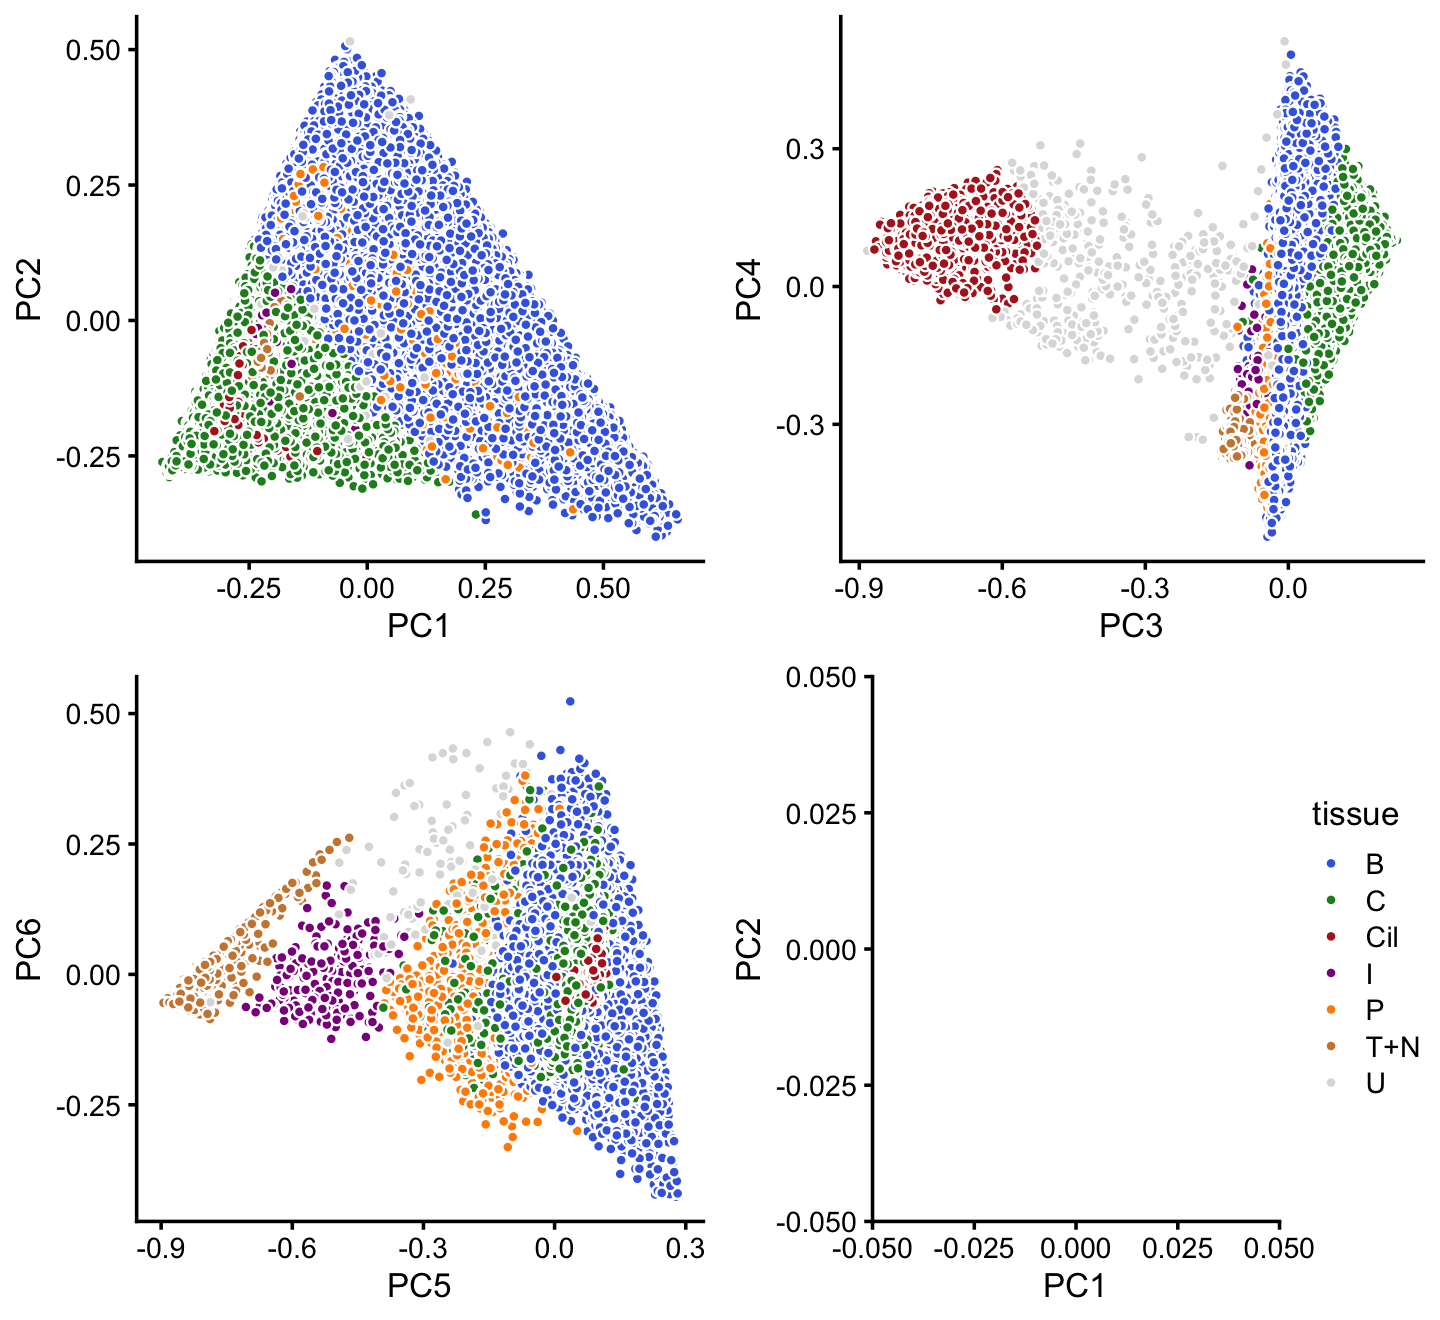
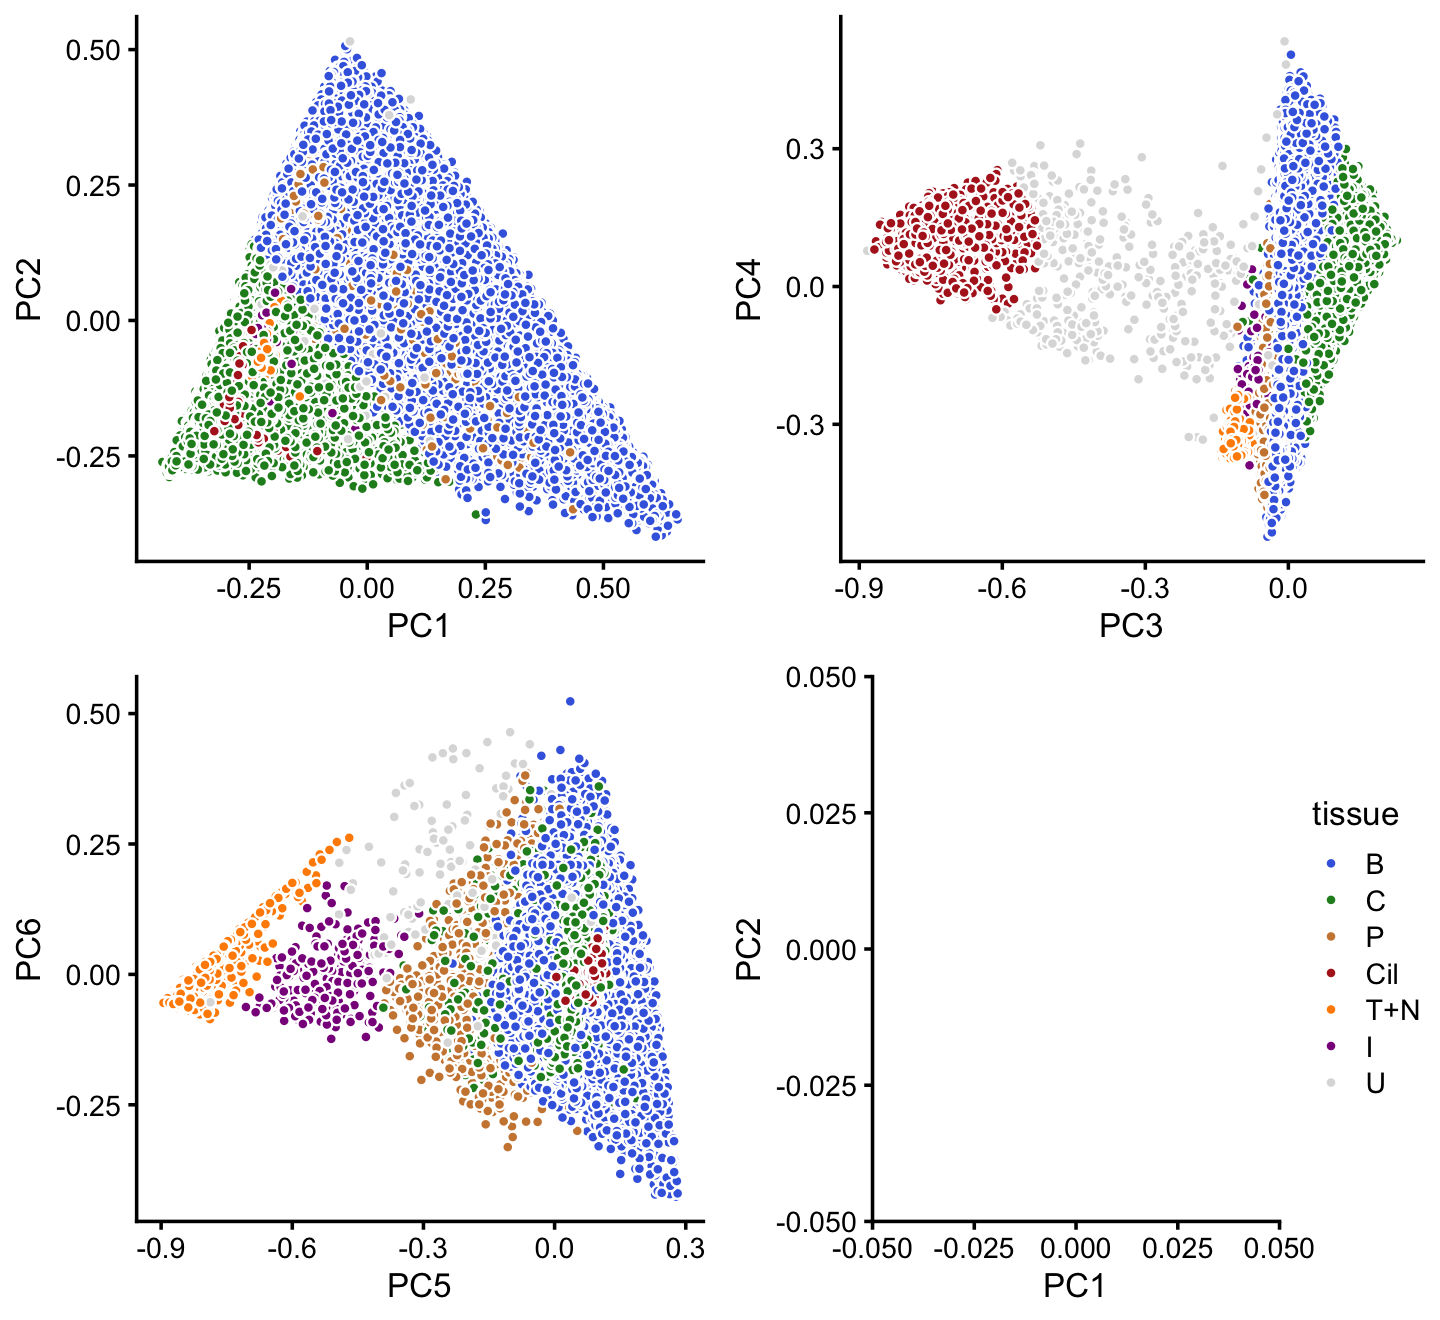
Added Structure plot and PCA plot to clusters_pulseseq analysis.

diff --git a/docs/clusters_pulseseq.html b/docs/clusters_pulseseq.html
@@ -414,16 +414,16 @@ This reproducible <a href="http://rmarkdown.rstudio.com">R Markdown</a> analysis
 <div class="panel panel-default">
 <div class="panel-heading">
 <p class="panel-title">
-<a data-toggle="collapse" data-parent="#workflowr-checks" href="#strongRepositoryversionstrongahrefhttpsgithubcomstephenslabsinglecelltopicstree62fef5a31dfe22d31f12807031f5eed93ccfc0ectargetblank62fef5aa"> <span class="glyphicon glyphicon-ok text-success" aria-hidden="true"></span> <strong>Repository version:</strong> <a href="https://github.com/stephenslab/single-cell-topics/tree/62fef5a31dfe22d31f12807031f5eed93ccfc0ec" target="_blank">62fef5a</a> </a>
+<a data-toggle="collapse" data-parent="#workflowr-checks" href="#strongRepositoryversionstrongahrefhttpsgithubcomstephenslabsinglecelltopicstreeec4a70acf23792b039d388e44a6e8f0a0130f6e6targetblankec4a70aa"> <span class="glyphicon glyphicon-ok text-success" aria-hidden="true"></span> <strong>Repository version:</strong> <a href="https://github.com/stephenslab/single-cell-topics/tree/ec4a70acf23792b039d388e44a6e8f0a0130f6e6" target="_blank">ec4a70a</a> </a>
 </p>
 </div>
[2 lines of base64/hex data omitted]
 <div class="panel-body">
 <p>
 Great! You are using Git for version control. Tracking code development and connecting the code version to the results is critical for reproducibility.
 </p>
 <p>
-The results in this page were generated with repository version <a href="https://github.com/stephenslab/single-cell-topics/tree/62fef5a31dfe22d31f12807031f5eed93ccfc0ec" target="_blank">62fef5a</a>. See the <em>Past versions</em> tab to see a history of the changes made to the R Markdown and HTML files.
+The results in this page were generated with repository version <a href="https://github.com/stephenslab/single-cell-topics/tree/ec4a70acf23792b039d388e44a6e8f0a0130f6e6" target="_blank">ec4a70a</a>. See the <em>Past versions</em> tab to see a history of the changes made to the R Markdown and HTML files.
 </p>
 <p>
 Note that you need to be careful to ensure that all relevant files for the analysis have been committed to Git prior to generating the results (you can use <code>wflow_publish</code> or <code>wflow_git_commit</code>). workflowr only checks the R Markdown file, but you know if there are other scripts or data files that it depends on. Below is the status of the Git repository when the results were generated:
@@ -443,8 +443,11 @@ Ignored files:
     Ignored:    output/pulseseq/fits-pulseseq.RData
     Ignored:    output/pulseseq/rds/
 
+Untracked files:
+    Untracked:  analysis/clustering-droplet.rds
+    Untracked:  analysis/clustering-pulseseq.rds
+
 Unstaged changes:
-    Modified:   analysis/clusters_droplet.Rmd
     Modified:   analysis/temp.R
 
 </code></pre>
@@ -484,6 +487,40 @@ Message
 </tr>
 </thead>
 <tbody>
+<tr>
+<td>
+Rmd
+</td>
+<td>
+<a href="https://github.com/stephenslab/single-cell-topics/blob/ec4a70acf23792b039d388e44a6e8f0a0130f6e6/analysis/clusters_pulseseq.Rmd" target="_blank">ec4a70a</a>
+</td>
+<td>
+Peter Carbonetto
+</td>
+<td>
+2020-09-22
+</td>
+<td>
+workflowr::wflow_publish(“clusters_pulseseq.Rmd”)
+</td>
+</tr>
+<tr>
+<td>
+html
+</td>
+<td>
+<a href="https://rawcdn.githack.com/stephenslab/single-cell-topics/6e4ccddaac9c949b976897c3787fc486d0405848/docs/clusters_pulseseq.html" target="_blank">6e4ccdd</a>
+</td>
+<td>
+Peter Carbonetto
+</td>
+<td>
+2020-09-22
+</td>
+<td>
+Made a few minor improvements to the clusters_pulseseq analysis.
+</td>
+</tr>
 <tr>
 <td>
 Rmd
@@ -1260,7 +1297,7 @@ Peter Carbonetto
 </table>
 </div>
 </div>
-<p>From PCs 5 and 6 define a new cluster, “P”, recognizing that this cluster is not particularly distinct.</p>
+<p>From PCs 5 and 6, define a new cluster, “P”, recognizing that this cluster is not particularly distinct.</p>
 <pre class="r"><code>pca &lt;- prcomp(fit2$L)$x
 y   &lt;- rep(&quot;B&quot;,nrow(pca))
 pc5 &lt;- pca[,5]
@@ -1268,12 +1305,21 @@ pc6 &lt;- pca[,6]
 y[pc5 &gt; 0.1 &amp; pc6 &lt; 0] &lt;- &quot;P&quot;
 x[rows] &lt;- y</code></pre>
 <p>In summary, we have subdivided the pulse-seq data into 7 subsets, which includes a background cluster (U).</p>
-<pre class="r"><code>colors &lt;- c(&quot;royalblue&quot;,&quot;forestgreen&quot;,&quot;firebrick&quot;,&quot;darkmagenta&quot;,
-            &quot;darkorange&quot;,&quot;peru&quot;,&quot;gainsboro&quot;)
-p16 &lt;- labeled_pca_plot(fit,1:2,x,colors) + guides(fill = &quot;none&quot;)
-p17 &lt;- labeled_pca_plot(fit,3:4,x,colors) + guides(fill = &quot;none&quot;)
-p18 &lt;- labeled_pca_plot(fit,5:6,x,colors) + guides(fill = &quot;none&quot;)
-p19 &lt;- labeled_pca_plot(fit,1:2,x,colors,&quot;tissue&quot;) +
+<pre class="r"><code>samples$cluster &lt;- factor(x,c(&quot;B&quot;,&quot;C&quot;,&quot;P&quot;,&quot;Cil&quot;,&quot;T+N&quot;,&quot;I&quot;,&quot;U&quot;))
+cluster_colors  &lt;- c(&quot;royalblue&quot;,   # B
+                     &quot;forestgreen&quot;, # C
+                     &quot;peru&quot;,        # P
+                     &quot;firebrick&quot;,   # Cil
+                     &quot;darkorange&quot;,  # T+N
+                     &quot;darkmagenta&quot;, # I
+                     &quot;gainsboro&quot;)   # U
+p16 &lt;- labeled_pca_plot(fit,1:2,samples$cluster,cluster_colors) +
+       guides(fill = &quot;none&quot;)
+p17 &lt;- labeled_pca_plot(fit,3:4,samples$cluster,cluster_colors) +
+       guides(fill = &quot;none&quot;)
+p18 &lt;- labeled_pca_plot(fit,5:6,samples$cluster,cluster_colors) +
+       guides(fill = &quot;none&quot;)
+p19 &lt;- labeled_pca_plot(fit,1:2,samples$cluster,cluster_colors,&quot;tissue&quot;) +
        xlim(0,0) + ylim(0,0)
 plot_grid(p16,p17,p18,p19)</code></pre>
 <p><img src="figure/clusters_pulseseq.Rmd/clustering-10-1.png" width="720" style="display: block; margin: auto;" /></p>
@@ -1369,28 +1415,70 @@ Peter Carbonetto
 </table>
 </div>
 </div>
-<p>Comparing this to the Montoro <em>et al</em> (2018) clustering, we observe some close correspondence (e.g., B and “basal cells”, P and “proliferating cells”). The B and C clusters appear to contain additional structure that is not well-captured by clusters. We will explore this additional structure in subsequent analyses.</p>
-<pre class="r"><code>samples$cluster &lt;- factor(x)
-with(samples,table(tissue,cluster))
+<p>Comparing this to the Montoro <em>et al</em> (2018) clustering, we observe some close correspondence (e.g., B and “basal cells”, P and “proliferating cells”).</p>
+<pre class="r"><code>with(samples,table(tissue,cluster))
 #                 cluster
-# tissue               B     C   Cil     I     P   T+N     U
-#   basal          40389  1468     0     0   199     0    37
-#   ciliated           0     0  2896     0     6     0   114
-#   club            1766 15870     0     6    36     1    21
-#   goblet             3   396     0     0     2     0     2
-#   ionocyte           0    45     0   193    15     8    15
-#   neuroendocrine     0     1     0     7     0   619     3
-#   proliferating     61   194     9     4   914     0   231
-#   tuft               0    18     0    12     4   691     9</code></pre>
+# tissue               B     C     P   Cil   T+N     I     U
+#   basal          40389  1468   199     0     0     0    37
+#   ciliated           0     0     6  2896     0     0   114
+#   club            1766 15870    36     0     1     6    21
+#   goblet             3   396     2     0     0     0     2
+#   ionocyte           0    45    15     0     8   193    15
+#   neuroendocrine     0     1     0     0   619     7     3
+#   proliferating     61   194   914     9     0     4   231
+#   tuft               0    18     4     0   691    12     9</code></pre>
 </div>
 <div id="structure-plot" class="section level2">
 <h2>Structure plot</h2>
-<p>TO DO:</p>
-<ul>
-<li><p>Add structure plot.</p></li>
-<li><p>Add plot(s) showing continuous substructure in club cells.</p></li>
-<li><p>Add plot(s) showing presence of Krt13+ hillock cells in B (“basal”) cluster.</p></li>
-</ul>
+<p>The structure plot summarizes the topic proportions in each of the 7 subsets:</p>
+<pre class="r"><code>set.seed(1)
+topic_colors &lt;- c(&quot;turquoise&quot;,&quot;darkorange&quot;,&quot;dodgerblue&quot;,&quot;gold&quot;,&quot;peru&quot;,
+                  &quot;greenyellow&quot;,&quot;firebrick&quot;,&quot;olivedrab&quot;,&quot;royalblue&quot;,
+                  &quot;forestgreen&quot;,&quot;gray&quot;)
+topics &lt;- c(11,1,3,4,5,6,8,10,9,2,7)
+rows &lt;- sort(c(sample(which(samples$cluster == &quot;B&quot;),1000),
+               sample(which(samples$cluster == &quot;C&quot;),1000),
+               sample(which(samples$cluster == &quot;P&quot;),500),
+               sample(which(samples$cluster == &quot;Cil&quot;),500),
+               sample(which(samples$cluster == &quot;T+N&quot;),500),
+               which(samples$cluster == &quot;I&quot;),
+               which(samples$cluster == &quot;U&quot;)))
+p20 &lt;- structure_plot(select(poisson2multinom(fit),loadings = rows),
+                      grouping = samples[rows,&quot;cluster&quot;],
+                      topics = topics,
+                      colors = topic_colors[topics],
+                      perplexity = c(70,70,30,50,50,30,70),
+                      n = Inf,gap = 30,num_threads = 4,verbose = FALSE)
+print(p20)</code></pre>
+<p><img src="figure/clusters_pulseseq.Rmd/structure-plot-1.png" width="960" style="display: block; margin: auto;" /></p>
+<p>Based on this structure plot, and from the other results above, we roughly subdivide the pulse-seq data into two subsets: (1) the Cil, T+N and I clusters that give rise to fairly well-separated clusters, and (2) the B, C and P subsets that contain interesting substructure but much less distinct clusters. Therefore,the cluster labels B, C and P are useful as a guide but should be taken with a grain of salt as the boundaries between these clusters are somewhat arbitrary.</p>
+<p>The structure plot suggests that there is substantial heterogeneity in the C cluster beyond what can be captured by “hard” clusters. In particular, three topics (<span class="math inline">\(k = 5, 6, 10\)</span>) are largely unique to the cells in this cluster, and two other topics (<span class="math inline">\(k = 4, 8\)</span>) primarily contribute to the cells in this cluster, although can be found in small proportions elsewhere.</p>
+<p>These topics indeed pick up continuous variation in gene expression among the cells in this cluster:</p>
+<pre class="r"><code>rows &lt;- which(x == &quot;C&quot;)
+fit2 &lt;- select(poisson2multinom(fit),loadings = rows)
+p21 &lt;- pca_plot(fit2,pcs = 1:2,k = c(5,8,10))
+print(p21)</code></pre>
+<p><img src="figure/clusters_pulseseq.Rmd/pca-plot-club-1-1.png" width="720" style="display: block; margin: auto;" /></p>
+<p>And in PCs 3 and 4:</p>
+<pre class="r"><code>p22 &lt;- pca_plot(fit2,pcs = 3:4,k = c(4,5,6))
+print(p22)</code></pre>
+<p><img src="figure/clusters_pulseseq.Rmd/pca-plot-club-2-1.png" width="720" style="display: block; margin: auto;" /></p>
+<p>The B cell also shows a lot of heterogeneity. Topic 1 is of particular interest because of its close connection to expression of the “hillock” gene <em>Krt13</em>:</p>
+<pre class="r"><code>rows &lt;- which(x == &quot;B&quot;)
+fit2 &lt;- select(poisson2multinom(fit),loadings = rows)
+pca  &lt;- prcomp(fit2$L)$x
+p23  &lt;- pca_plot(fit2,pcs = 2:3,k = 1) + guides(fill = &quot;none&quot;)
+pdat &lt;- data.frame(PC2   = pca[,2],
+                   PC3   = pca[,3],
+                   Krt13 = log10(counts[rows,&quot;Krt13&quot;]))
+p24 &lt;- ggplot(pdat,aes(x = PC2,y = PC3,fill = Krt13)) +
+  geom_point(shape = 21,color = &quot;white&quot;,size = 1.25) +
+  scale_fill_gradientn(colors = c(&quot;skyblue&quot;,&quot;gold&quot;,&quot;darkorange&quot;,&quot;magenta&quot;),
+                        na.value = &quot;lightskyblue&quot;) +
+  labs(fill = &quot;log10 expression level&quot;) +
+  theme_cowplot(font_size = 10)
+plot_grid(p23,p24,rel_widths = c(7,10))</code></pre>
+<p><img src="figure/clusters_pulseseq.Rmd/pca-plot-basal-1.png" width="720" style="display: block; margin: auto;" /></p>
 </div>
 <div id="save-results" class="section level2">
 <h2>Save results</h2>
